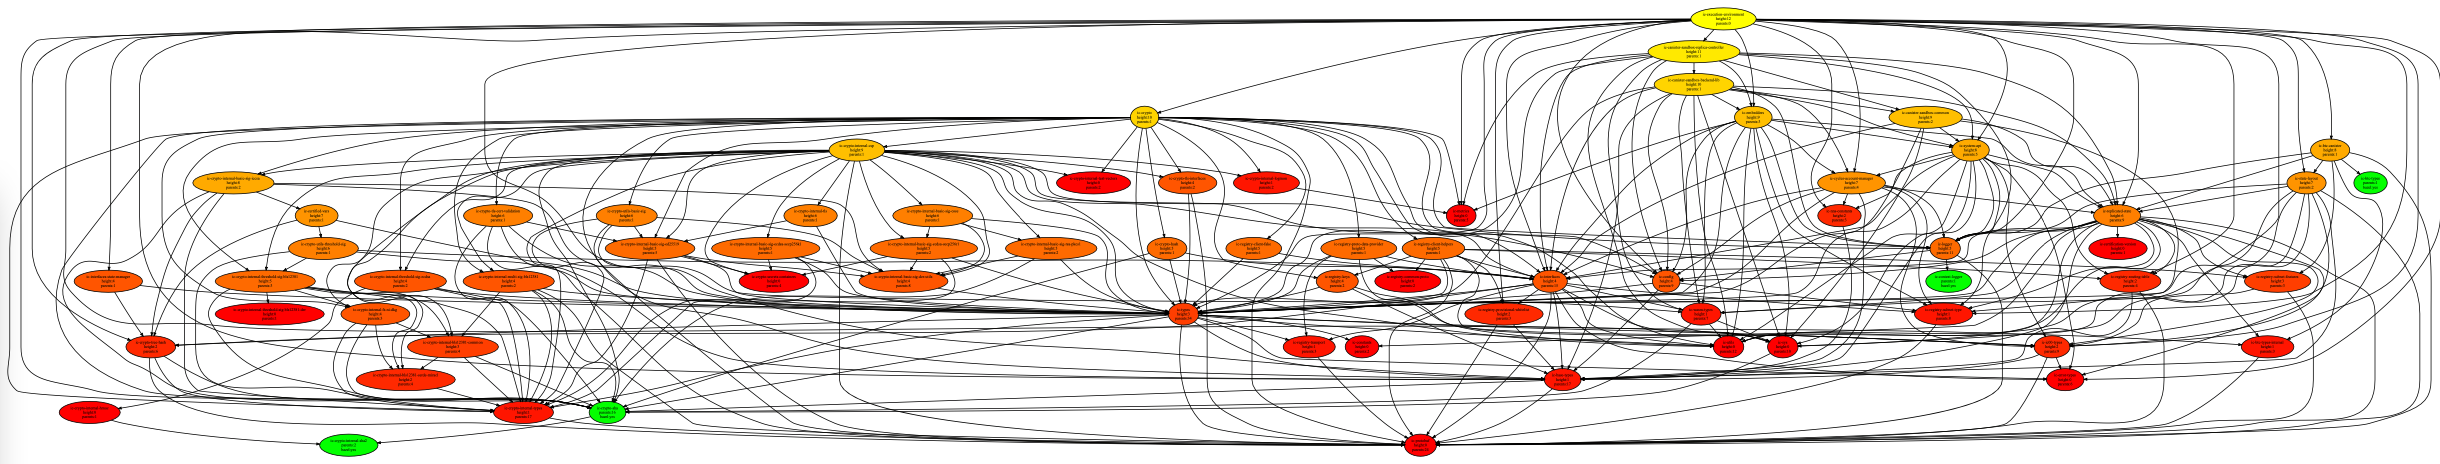
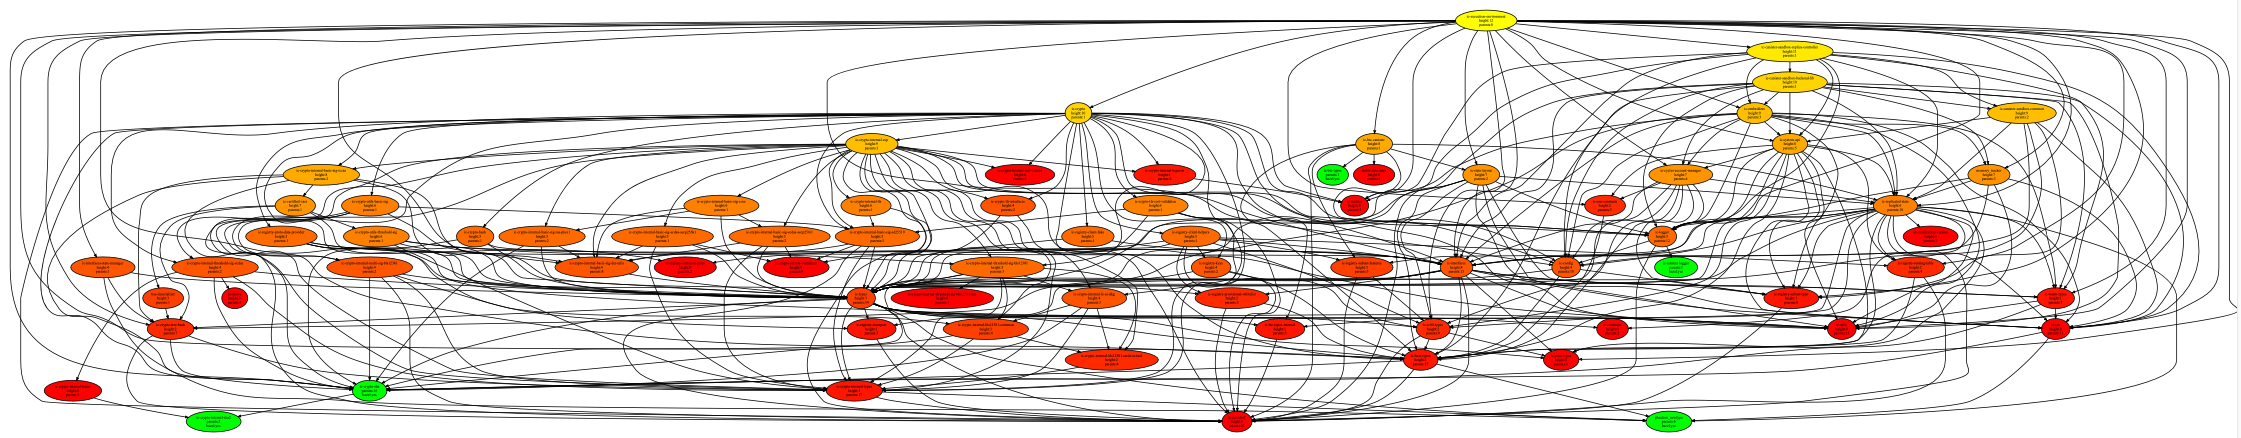
add skip 3rd party package dependencies flag (#4)
IC packages do not always have `ic-` prefix (eg. `//rs/phantom_newtype`), so removing `--ic_only` flag and adding `--skip_3rd_party` flag.

diff --git a/main.py b/main.py
@@ -18,7 +18,7 @@ def read(path):
         return f.read()
 
 
-def build_graph(source_dir, ic_packages_only=True):
+def build_graph(source_dir, skip_3rd_party):
     # Collect Cargo.toml paths.
     data = [
         {
@@ -35,19 +35,24 @@ def build_graph(source_dir, ic_packages_only=True):
         if os.path.exists(path):
             entry['bazel_path'] = path
 
+    # Collect all package names.
+    if skip_3rd_party:
+        packages = [
+            x.get('cargo_toml', {}).get('package', {}).get('name')
+            for x in data
+        ]
+        packages = set([x for x in packages if x is not None])
+
     # Build graph.
     graph = {}
     for entry in data:
         info = entry.get('cargo_toml', {})
         package_name = info.get('package', {}).get('name', '')
 
-        # Skip packages without 'ic-*' prefix.
-        if ic_packages_only and not package_name.startswith('ic-'):
-            continue
         children = info.get('dependencies', {}).keys()
-        # Skip dependencies without 'ic-*' prefix.
-        if ic_packages_only:
-            children = [x for x in children if x.startswith('ic-')]
+        # Skip 3rd party package dependencies.
+        if skip_3rd_party:
+            children = [x for x in children if x in packages]
         children = sorted(children, reverse=False)  # Stabilaze data.
         graph[package_name] = {
             'bazel_path': entry.get('bazel_path'),
@@ -285,11 +290,12 @@ def main():
     parser.add_argument(
         '-csv', '--csv_path', help='CSV output file', default='./output/packages.csv')
     parser.add_argument(
-        '-ic', '--ic_only', help='show only packages with "ic-" prefix', type=str2bool, default=True)
+        '-s3p', '--skip_3rd_party', help='skip 3rd party package dependencies', type=str2bool, default=True)
     args = parser.parse_args()
 
     # Generate graph of package dependencies.
-    graph = build_graph(args.source_dir, ic_packages_only=args.ic_only)
+    graph = build_graph(
+        args.source_dir, skip_3rd_party=args.skip_3rd_party)
     subtree = extract_subtree(graph, args.root_package)
 
     bazel_n, total, ratio = calculate_progress(subtree)

diff --git a/README.md b/README.md
@@ -15,8 +15,12 @@ Help with `Cargo`-to-`Bazel` migration for the [Internet Computer](https://githu
 
 ## Examples
 
-### ic-ic00-types
+### ic-ic00-types (no 3rd party dependencies)
+
 ![Example](./images/ic-ic00-types.png)
+
+### ic-ic00-types (with 3rd party dependencies)
+![Example](./images/ic-ic00-types-3p.png)
 
 ### ic-types
 ![Example](./images/ic-types.png)
